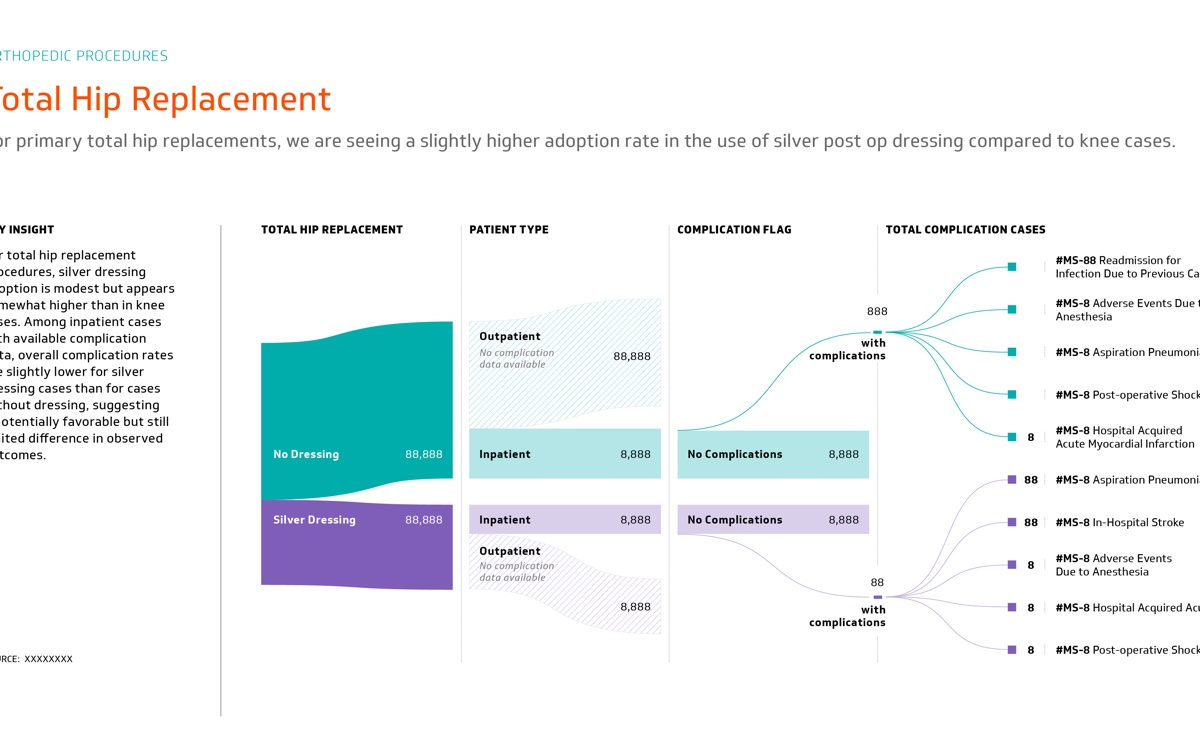
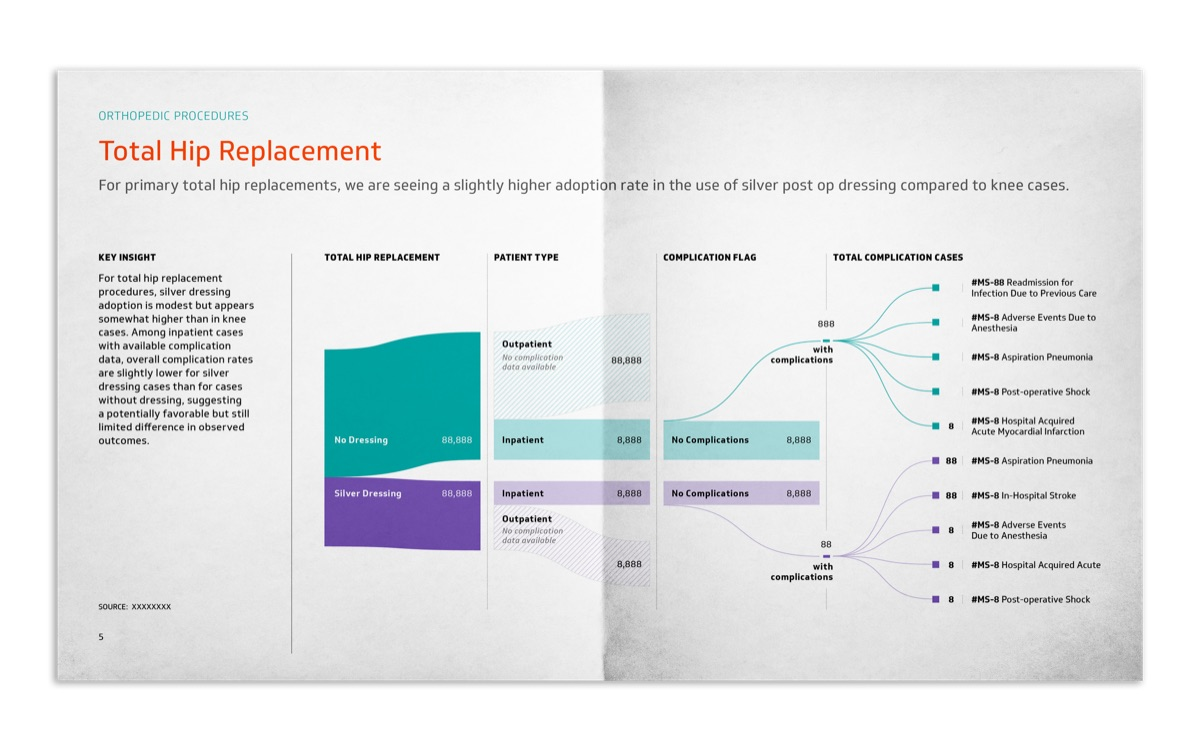
Sankey tile: the printed-spread mockup
Replaces the flat screenshot with Chris's spread mockup of the hip
replacement Sankey. Cropped 16:10 from the 2814x1910 source by trimming
the dark margin evenly, resampled to the 1200x750 tile size, 144K. All
figures in the art are masked eights and the source line is Xs; no
client marks. Alt updated to say it is a printed spread; cache-buster
bumped.

diff --git a/index.html b/index.html
@@ -205,8 +205,8 @@
     </article>
       <article class="tile" data-reveal>
       <div class="tile__thumb">
-        <img src="assets/img/tools/surgical-sankey.jpg?v=20260812a"
-             alt="A Sankey study of total hip replacement: cases flow from dressing used, through patient type, to complication flag and a ranked list of complication codes. Every figure is masked."
+        <img src="assets/img/tools/surgical-sankey.jpg?v=20260820c"
+             alt="A printed spread of the total hip replacement Sankey: cases flow from dressing used, through patient type, to complication flag and a ranked list of complication codes. Every figure is masked."
              width="1200" height="750">
       </div>
       <div class="tile__body">
